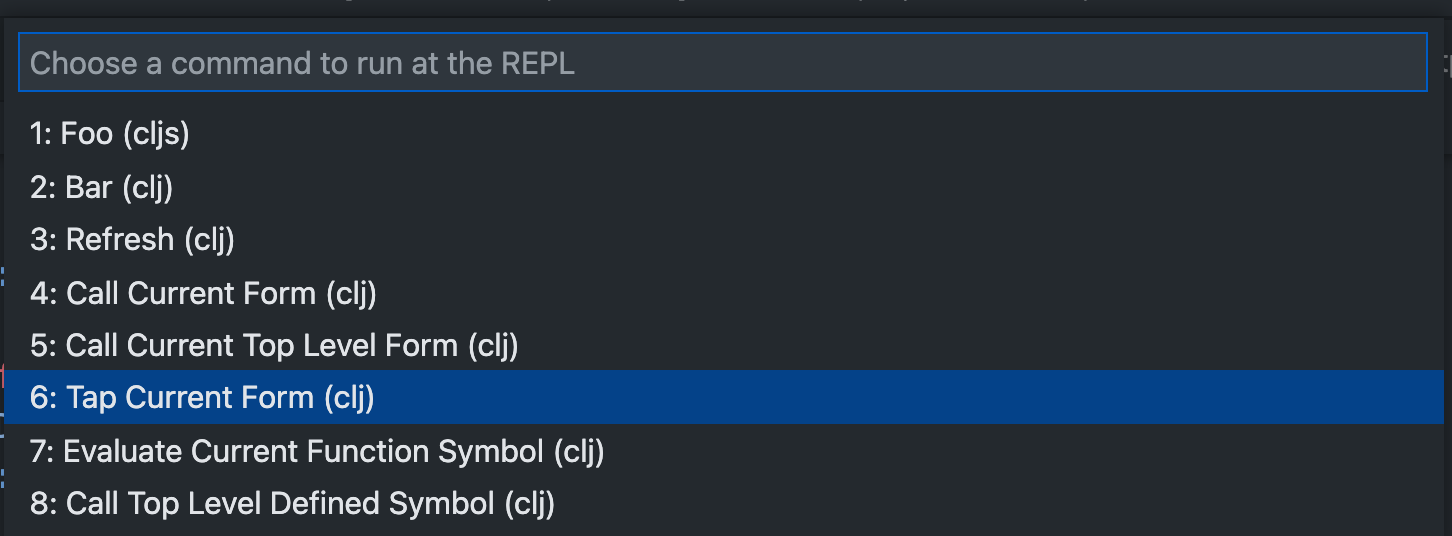
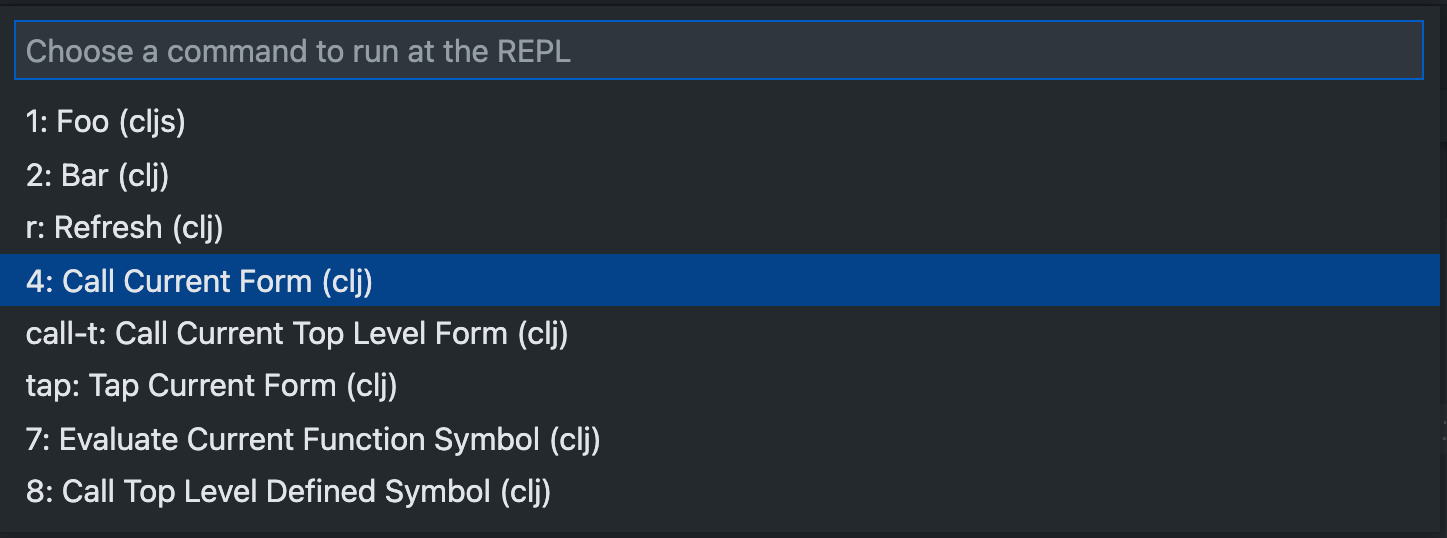
Add arguments to custom repl commands
Allso adds default commands for tapping form and toplevel
Fixes #1011
Fixes #1008

diff --git a/src/custom-snippets.ts b/src/custom-snippets.ts
@@ -3,10 +3,15 @@ import * as _ from 'lodash';
 import * as state from './state';
 import * as util from './utilities';
 import * as namespace from './namespace';
+import * as outputWindow from './results-output/results-doc'
 import { customREPLCommandSnippet, evaluateInOutputWindow } from './evaluate';
-import { forEach } from 'lodash';
 
-export async function evaluateCustomCommandSnippetCommand(): Promise<void> {
+export async function evaluateCustomCodeSnippetCommand(codeOrKey?: string) {
+    await evaluateCustomCodeSnippet(codeOrKey);
+    outputWindow.appendPrompt();
+};
+
+async function evaluateCustomCodeSnippet(codeOrKey?: string): Promise<void> {
     const editor = vscode.window.activeTextEditor;
     const currentLine = editor.selection.active.line;
     const currentColumn = editor.selection.active.character;
@@ -15,7 +20,12 @@ export async function evaluateCustomCommandSnippetCommand(): Promise<void> {
     let configErrors: { "name": string; "keys": string[]; }[] = [];
     const snippets = state.config().customREPLCommandSnippets as customREPLCommandSnippet[];
     const snippetsDict = {};
+    const snippetsKeyDict = {};
     const snippetsMenuItems: string[] = [];
+    const editorNS = editor && editor.document &&
+        editor.document.languageId === 'clojure' ? namespace.getNamespace(editor.document) : undefined;
+    const editorRepl = editor && editor.document &&
+        editor.document.languageId === 'clojure' ? namespace.getREPLSessionType() : "clj";
     snippets.forEach((c: customREPLCommandSnippet) => {
         const undefs = ["name", "snippet"].filter(k => {
             return !c[k];
@@ -24,15 +34,16 @@ export async function evaluateCustomCommandSnippetCommand(): Promise<void> {
             configErrors.push({ "name": c.name, "keys": undefs });
         }
         const entry = { ...c };
-        const editorNS = editor && editor.document && editor.document.languageId === 'clojure' ? namespace.getNamespace(editor.document) : undefined;
-        entry.ns = c.ns ? c.ns : editorNS;
-        const editorRepl = editor && editor.document && editor.document.languageId === 'clojure' ? namespace.getREPLSessionType() : "clj";
-        entry.repl = c.repl ? c.repl : editorRepl;
+
+        entry.ns = entry.ns ? entry.ns : editorNS;
+
+        entry.repl = entry.repl ? entry.repl : editorRepl;
         pickCounter++;
-        const prefix = c.key !== undefined ? c.key : pickCounter;
+        const prefix = entry.key !== undefined ? entry.key : pickCounter;
         const item = `${prefix}: ${entry.name} (${entry.repl})`;
         snippetsMenuItems.push(item);
         snippetsDict[item] = entry;
+        snippetsKeyDict[entry.key] = item;
     });
 
     if (configErrors.length > 0) {
@@ -40,29 +51,38 @@ export async function evaluateCustomCommandSnippetCommand(): Promise<void> {
         return;
     }
 
-    if (snippets && snippets.length > 0) {
-        try {
-            const pick = await util.quickPickSingle({
-                values: snippetsMenuItems,
-                placeHolder: "Choose a command to run at the REPL",
-                saveAs: "runCustomREPLCommand"
-            });
-            if (pick && snippetsDict[pick] && snippetsDict[pick].snippet) {
-                const command = snippetsDict[pick].snippet.
-                    replace("$line", currentLine).
-                    replace("$column", currentColumn).
-                    replace("$file", currentFilename).
-                    replace("$ns", snippetsDict[pick].ns).
-                    replace("$current-form", util.currentFormText(editor, false)).
-                    replace("$top-level-form", util.currentFormText(editor, true)).
-                    replace("$current-fn", util.currentFunction(editor)).
-                    replace("$top-level-defined-symbol", util.currentTopLevelFunction(editor));
-                await evaluateInOutputWindow(command, snippetsDict[pick].repl, snippetsDict[pick].ns);
+    let pick: string;
+    if (codeOrKey === undefined) { // Without codeOrKey always show snippets menu
+        if (snippetsMenuItems.length > 0) {
+            try {
+                pick = await util.quickPickSingle({
+                    values: snippetsMenuItems,
+                    placeHolder: "Choose a command to run at the REPL",
+                    saveAs: "runCustomREPLCommand"
+                });
+            } catch (e) {
+                console.error(e);
             }
-        } catch (e) {
-            console.error(e);
         }
-    } else {
-        vscode.window.showInformationMessage("No snippets configured. Configure snippets in `calva.customREPLCommandSnippets`.", ...["OK"]);
+        if (pick === undefined) {
+            outputWindow.append("; No snippets configured. Configure snippets in `calva.customREPLCommandSnippets`.");
+            return;
+        }
     }
+    if (pick === undefined) { // still no pick, but codeOrKey might be one
+        pick = snippetsKeyDict[codeOrKey];
+    }
+    const code = pick !== undefined ? snippetsDict[pick].snippet : codeOrKey;
+    const ns = pick !== undefined ? snippetsDict[pick].ns : editorNS;
+    const repl = pick !== undefined ? snippetsDict[pick].repl : editorRepl;
+    const interpolatedCode = code.
+        replace("$line", currentLine).
+        replace("$column", currentColumn).
+        replace("$file", currentFilename).
+        replace("$ns", ns).
+        replace("$current-form", util.currentFormText(editor, false)).
+        replace("$top-level-form", util.currentFormText(editor, true)).
+        replace("$current-fn", util.currentFunction(editor)).
+        replace("$top-level-defined-symbol", util.currentTopLevelFunction(editor));
+    await evaluateInOutputWindow(interpolatedCode, repl, ns);
 }

diff --git a/src/extension.ts b/src/extension.ts
@@ -164,10 +164,9 @@ async function activate(context: vscode.ExtensionContext) {
     context.subscriptions.push(vscode.commands.registerCommand('calva.refresh', refresh.refresh));
     context.subscriptions.push(vscode.commands.registerCommand('calva.refreshAll', refresh.refreshAll));
     context.subscriptions.push(vscode.commands.registerCommand('calva.debug.instrument', eval.instrumentTopLevelForm));
-    context.subscriptions.push(vscode.commands.registerCommand('calva.runCustomREPLCommand', async () => {
-        await snippets.evaluateCustomCommandSnippetCommand();
-        outputWindow.appendPrompt();
-    }));
+    context.subscriptions.push(vscode.commands.registerCommand('calva.runCustomREPLCommand', snippets.evaluateCustomCodeSnippetCommand));
+    context.subscriptions.push(vscode.commands.registerCommand('calva.tapSelection', () => snippets.evaluateCustomCodeSnippetCommand("(tap> $current-form)")));
+    context.subscriptions.push(vscode.commands.registerCommand('calva.tapCurrentTopLevelForm', () => snippets.evaluateCustomCodeSnippetCommand("(tap> $top-level-form)")));
     context.subscriptions.push(vscode.commands.registerCommand('calva.showOutputWindow', () => { outputWindow.revealResultsDoc(false) }));
     context.subscriptions.push(vscode.commands.registerCommand('calva.showFileForOutputWindowNS', () => { outputWindow.revealDocForCurrentNS(false) }));
     context.subscriptions.push(vscode.commands.registerCommand('calva.setOutputWindowNamespace', outputWindow.setNamespaceFromCurrentFile));

diff --git a/docs/site/custom-commands.md b/docs/site/custom-commands.md
@@ -1,13 +1,14 @@
-# Running Custom REPL Commands
+# Custom REPL Commands
 
-Calva supports configuration of custom command snippets that you can execute in the REPL at will. If your workflow has you repeatedly evaluate a particular piece of code, you can use the setting `calva.customREPLCommandSnippets` to configure it and then use the command **Run Custom REPL Command** to access it. The command will give you a menu with the snippets you have configured.
+Calva supports configuration of custom command snippets that you can evaluate in the REPL at will. If your workflow has you repeatedly evaluate a particular piece of code, you can use the setting `calva.customREPLCommandSnippets` to configure it. Then either bind keyboard shortcuts to them or use the command **Run Custom REPL Command** to access it. The command will give you a menu with the snippets you have configured.
 
-The `calva.customREPLCommandSnippets` is an array of objects with the following fields:
+The `calva.customREPLCommandSnippets` is an array of objects with the following fields (required fields in **bold**):
 
-* `name`: The name of the snippet as it will appear in the picker menu
-* `snippet`: The code that will be evaluated
-* `ns`: (optional) Namespace to evaluate the command in. If omitted the command will be executed in the namespace of the current editor.
-* `repl`: Which repl session to use for the evaluation. Either `"clj"` or `"cljs"`
+* **`name`**: The name of the snippet as it will appear in the picker menu
+* **`snippet`**: The code that will be evaluated
+* `key`: A key can be used to reference the snippet from **Run Custom REPL Command** keyboard shortcut arguments. It will also be used in the quick-pick menu.
+* `ns`: A namespace to evaluate the command in. If omitted the command will be executed in the namespace of the current editor.
+* `repl`: Which repl session to use for the evaluation. Either `"clj"` or `"cljs"`. Omit if you want to use the session of the current editor.
 
 There are also substitutions available, which will take elements from the current state of Calva and splice them in to the text of your command before executing it. They are
 
@@ -38,6 +39,7 @@ Consider these settings:
         },
         {
             "name": "Refresh",
+            "key": "r",
             "snippet": "(refresh)",
             "repl": "clj"
         },
@@ -48,11 +50,15 @@ Consider these settings:
         },
         {
             "name": "Call Current Top Level Form",
+            "key": "call-t",
             "repl": "clj",
             "snippet": "($top-level-form)"
         },
         {
+            // You don't need to configure this one,
+            // there is a built-in command for tapping the current form
             "name": "Tap Current Form",
+            "key": "tap",
             "repl": "clj",
             "snippet": "(tap> $current-form)"
         },
@@ -70,10 +76,34 @@ Consider these settings:
 ```
 
 
-Issuing **Run Custom REPL Command** will render this VS Code menu:
+Issuing **Run Custom REPL Command** will then render this VS Code menu:
 
 ![](images/custom-command-menu.png)
 
-The items are numbered for you so that you can choose them in predictable way. The default keyboard shortcut for the command is `ctrl+alt+space`. Which means that to execute the **Tap Current Form** custom command, you could do:
+The items are numbered for you so that you can choose them in predictable way. The default keyboard shortcut for the command is `ctrl+alt+space`. Which means that to execute the **Call Current Form** custom command, you could do:
 
-`ctrl+alt+space 6 enter`.
+`ctrl+alt+space 4 enter`.
+
+## Binding keyboard shortcuts
+
+Some custom REPL commands might be so central to your workflow that you want to bind keyboard shortcuts to them directly. There are two ways to do this:
+
+1. Bind `calva.runCustomREPLCommand` to a shortcut with whatever code you want to evaluate in `args` key. You have access to the substitution variables here as well.
+2. Bind `calva.runCustomREPLCommand` to a shortcut referencing the `key` of on of your `calva.customREPLCommandSnippets`.
+
+Given the above example settings, here are two shortcut definitions that both `tap>` the current form:
+
+```json
+    {
+        "key": "ctrl+alt+shift+t t",
+        "command": "calva.runCustomREPLCommand",
+        "args": "(tap> $current-form)"
+    },
+    {
+        "key": "ctrl+alt+shift+t t",
+        "command": "calva.runCustomREPLCommand",
+        "args": "tap"
+    }
+```
+
+(Again, none of them is needed, the built in command for tapping the current form is default bound to the shortcut `ctrl+shift+t t`.)
